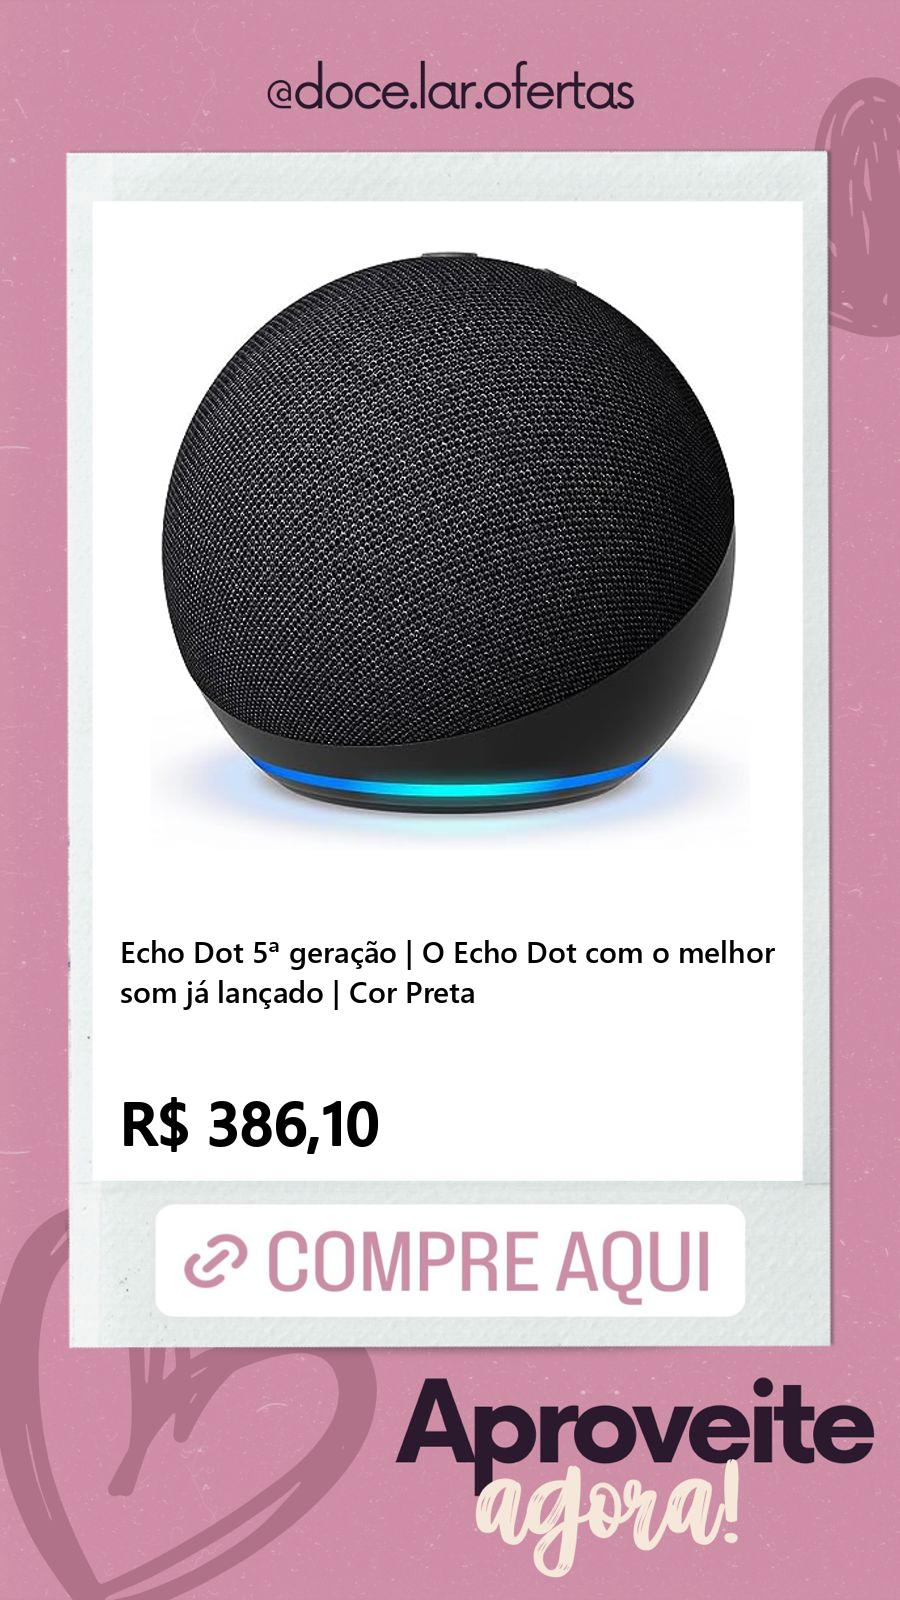
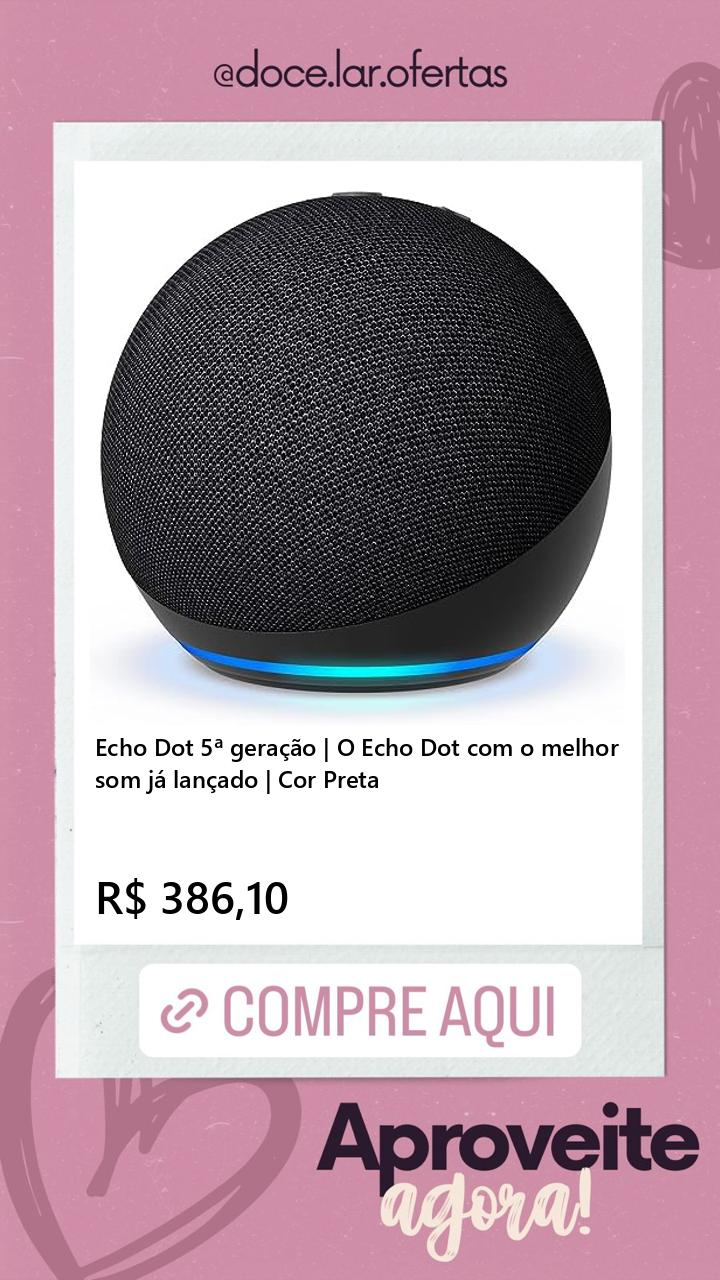
fix

Changed region(s): [[0.1222, 0.125, 0.8556, 0.625], [0.1528, 0.75, 0.825, 0.8438], [0.1222, 0.6875, 0.4278, 0.7188]]

diff --git a/index.js b/index.js
@@ -3,26 +3,33 @@ require('dotenv').config();
 const {PythonShell} = require('python-shell')
 
 async function testPy() {
-    var imglink = "https://m.media-amazon.com/images/I/71xoR4A6q-L._AC_SY450_.jpg";
-    var link = 'https://amzn.to/49w7rHe'
 
-    const { IG_USERNAME, IG_PASSWORD } = process.env;
+    const product = {
+        name: "Echo Dot 5ª geração | O Echo Dot com o melhor som já lançado | Cor Preta",
+        image: "https://m.media-amazon.com/images/I/71xoR4A6q-L._AC_SY450_.jpg",
+        link: "https://amzn.to/3sEQbPj",
+        price: "R$ 386,10"
+    };
 
     const options = {
         mode: 'text',
-        args: [IG_USERNAME, IG_PASSWORD, imglink, "R$ 386,10", "(10% off)", "R$ 100,00", "Echo Dot 5ª geração | O Echo Dot com o melhor som já lançado | Cor Preta", "Favor desconsiderar esse story é um teste.", link]
+        args: [
+            process.env.IG_USERNAME, 
+            process.env.IG_PASSWORD, 
+            product.name,
+            product.image,
+            product.link,
+            product.price,
+        ]
     };
 
     try {
         PythonShell.run('./src/python/instagram.py', options, (err, results) => {
             if (err) console.log(err);
-            console.log(results)
-            // for (const result of results) {
-            //     if (result.includes('Erro:')) {
-            //         console.log(result)
-            //     }
-            // }
-        })
+            for (const r of results) {
+                console.log('>', r);
+            }
+        });
     } catch (err) {
         console.log(err.message)
     }

diff --git a/src/python/instagram.py b/src/python/instagram.py
@@ -19,16 +19,16 @@ from instagrapi.types import StoryLink
 # TITULO = "Desconsiderar"
 # DESCRICAO = "Favor desconsiderar esse story, ele é um teste. Com uma descrição muito muito grande para ver como fica na imagem e letras pequenas para não quebrar."
 # LINK = 'https://google.com.br'
-print(sys.argv)
+
 IG_USERNAME = sys.argv[1]
 IG_PASSWORD = sys.argv[2]
-IMAGE_LINK = sys.argv[3]
-PRECO = sys.argv[4]
-DESCONTO = sys.argv[5]
-PRECO_CAPA = sys.argv[6]
-TITULO = sys.argv[7]
-DESCRICAO = sys.argv[8]
-LINK = sys.argv[9]
+TITULO      = sys.argv[3]
+IMAGE_LINK  = sys.argv[4]
+LINK        = sys.argv[5]
+PRECO       = sys.argv[6]
+# PRECO_CAPA = sys.argv[7]
+# DESCONTO = sys.argv[8]
+# DESCRICAO = sys.argv[9]
 IG_CREDENTIAL_PATH = './src/python/credential.json'
 
 cl = Client()
@@ -49,7 +49,7 @@ def login():
         return False
 
 def save_image():
-    
+    print("Starting save_image...")
     try:
         try:
             response = requests.get(IMAGE_LINK)
@@ -57,35 +57,38 @@ def save_image():
             print('Erro: Erro ao requerir imagem')
 
         bg = Image.open('./src/python/res/story.jpg')
-        productImage = Image.open(BytesIO(response.content))
-        productImage = productImage.resize((600, 600))
-        linkImage = Image.open('./src/python/res/link.jpg')
-        linkImage = linkImage.resize((600, 120))
+        bg = bg.resize((720, 1280))
+
+        product_image = Image.open(BytesIO(response.content))
+        product_image = product_image.resize((535, 535))
+        product_link  = Image.open('./src/python/res/link.jpg')
+        product_link  = product_link.resize((450, 100))
 
         imgcp = bg.copy()
-        imgcp.paste(productImage, ((150), (250)))
-        imgcp.paste(linkImage, ((150), (1200)))
+        imgcp.paste(product_image, ((90), (190)))
+        imgcp.paste(product_link, ((135), (960)))
 
-        draw = ImageDraw.Draw(imgcp)
-        pos_y = 930
-        pos_x = 120
+        draw  = ImageDraw.Draw(imgcp)
+        pos_y = 730
+        pos_x = 95
         position = (pos_x, pos_y)
 
         # Titulo
-        font = ImageFont.truetype('./src/python/res/SEGUISB.TTF', 30)
+        font = ImageFont.truetype('./src/python/res/SEGUISB.TTF', 24)
         width, height = font.getsize(TITULO)
         lines = textwrap.wrap(TITULO, width=45)
+        
         for line in lines:
             draw.text(position, line, font=font, fill="#000", stroke_width=0)
             pos_y += height
             position = (pos_x, pos_y)
 
         # Preço
-        position = (120, 1080)
-        font = ImageFont.truetype('./src/python/res/SEGUISB.TTF', 60)
-        draw.text(position, PRECO, font=font, fill="#000", stroke_width=1, stroke_fill="#000")
+        position = (95, 865)
+        font = ImageFont.truetype('./src/python/res/SEGUISB.TTF', 45)
+        draw.text(position, PRECO, font=font, fill="#000", stroke_width=0, stroke_fill="#000")
         
-        #Preço capa
+        # Preço capa
         # pos_y = 150
         # pos_x = 460
         # position = (pos_x, pos_y)
@@ -118,18 +121,22 @@ def save_image():
         imgcp.save('./src/python/res/img_final.jpg')
 
         return True
+    
     except Exception as ex:
         print('Erro: Erro ao montar a imagem')
         print(ex)
         return False
 
 def post_story():
+    print("Starting post_story...")
     global cl
-    print('storie')
-    print(LINK)
-    cl.photo_upload_to_story("./src/python/res/img_final.jpg", "", links=[StoryLink(webUri=LINK, x=150, y=1200, width=600, height=120)])
+    cl.photo_upload_to_story("./src/python/res/img_final.jpg", "", 
+        links=[StoryLink(webUri=LINK, x=0.50, y=0.80, width=0.3, height=0.05)],
+        extra_data={"share_to_facebook": 0}
+    )
 
 def main():
+    print("Starting main...")
 
     is_logged = login()
 
@@ -139,7 +146,7 @@ def main():
     if is_logged: 
         post_story()
 
-    print('finalizou')
+    print('Finish')
 
 if __name__ == "__main__":
     main()
